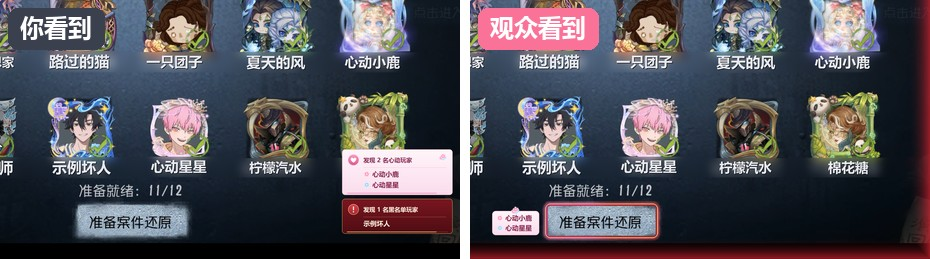
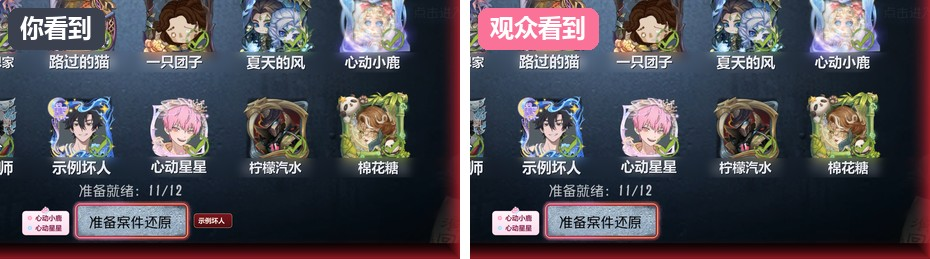
v0.8.1: the 直播模式 guide compares like with like, in fewer words.
- stream-diff-1.jpg: both halves are 完整模式 at the same moment, the marks by the button; 你看到 has
  the 黑名单 card, 观众看到 the same without it. Before, 你看到 showed 安全模式's corner cards.
- The guide's words: 观众看不到黑名单，能看到心动 and 在直播姬添加窗口捕捉.
- Release notes from here on are a few short lines.

Changed region(s): [[0.0, 0.0, 0.4989, 1.0]]

diff --git a/blacklist_detect/ui_dialogs.py b/blacklist_detect/ui_dialogs.py
@@ -777,10 +777,10 @@ class GuideDialog(Modal):
 
 
 # 直播模式's guide, one page of two rows: (picture in assets, title, words). What viewers see,
-# side by side with what the player sees, then how to add it in 直播姬.
+# side by side with what the player sees (both 完整模式, the same moment), then how to add it in 直播姬.
 STREAM_GUIDE = (
-    ("stream-diff-1.jpg", "观众看到什么", "直播模式下观众不会看到黑名单，仍然可以看到心动列表"),
-    ("stream-setup-2.png", "怎么设置", "在直播姬添加「窗口捕捉」，选「模仿者小工具·直播画面」，点「确定」"),
+    ("stream-diff-1.jpg", "观众看到什么", "观众看不到黑名单，能看到心动"),
+    ("stream-setup-2.png", "怎么设置", "在直播姬添加窗口捕捉"),
 )
 # 显示's guide: what the player sees in each mode.
 DISPLAY_DIFF = (

diff --git a/blacklist_detect/__init__.py b/blacklist_detect/__init__.py
@@ -1,3 +1,3 @@
 """Black List Detect — desktop lobby name check."""
 
-__version__ = "v0.8.0"
+__version__ = "v0.8.1"
